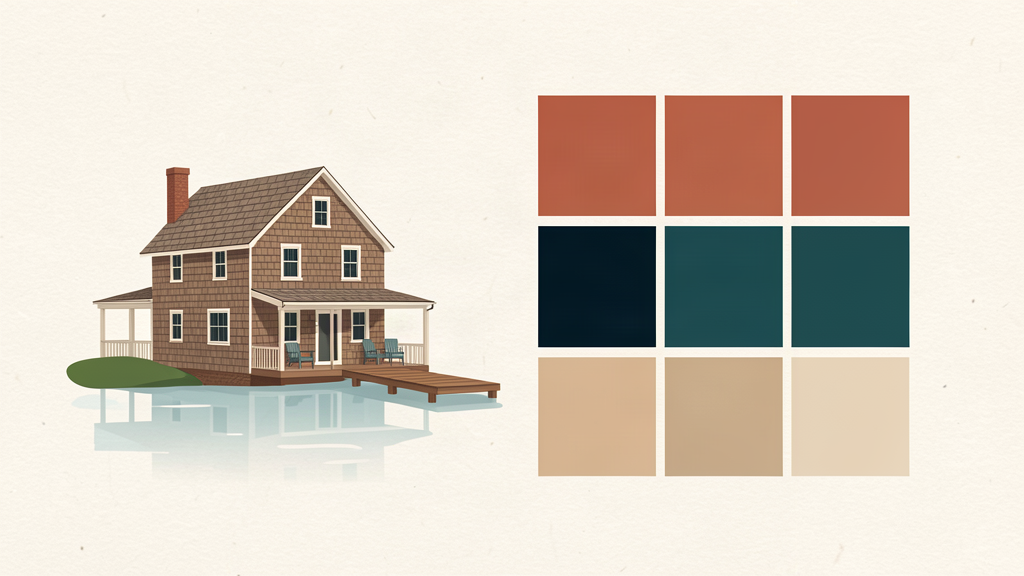
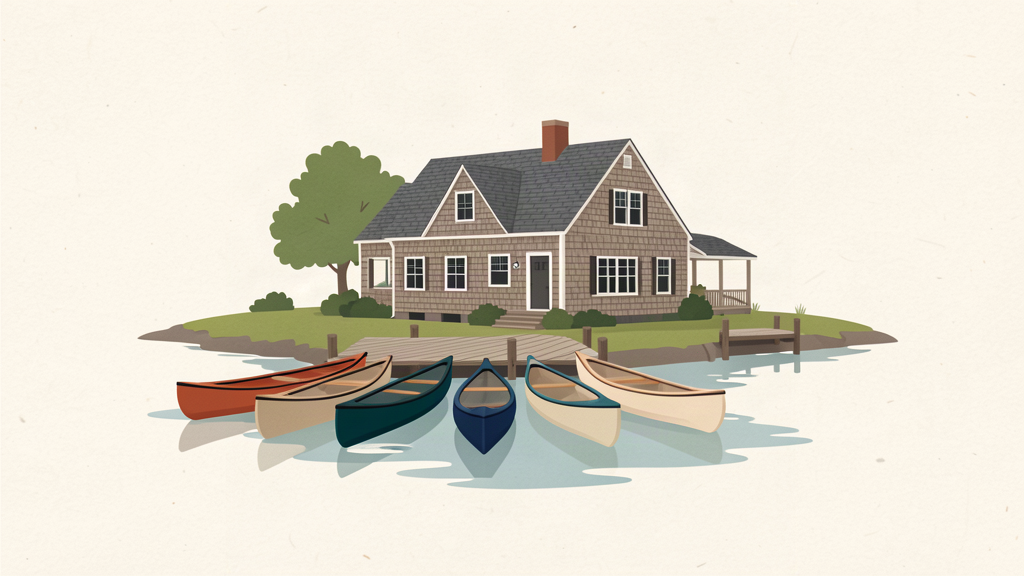
Replace hero image on post 1: lake house with canoes, no color grid

diff --git a/index.html b/index.html
@@ -1,3 +1,3 @@
 <!doctype html><html lang="en"><head><meta charset="utf-8"><meta name="viewport" content="width=device-width,initial-scale=1">
 <title>SplitHaus Guides (index) | draft preview</title><meta name="description" content="Draft preview of SplitHaus guides."><meta name="robots" content="noindex,nofollow"><link rel="preconnect" href="https://fonts.googleapis.com"><link href="https://fonts.googleapis.com/css2?family=Fraunces:opsz@9..144&family=Hanken+Grotesk:wght@400;600&display=swap" rel="stylesheet"><link rel="stylesheet" href="style.css"></head>
-<body><div class="banner">Draft preview for review. Not published. Not indexed.</div><main class="wrap"><nav class="crumb"><a href="https://www.splithaus.com/">SplitHaus</a></nav><h1>Guides</h1><p class="meta">Batch A drafts for review. Post 3 (SplitHaus vs a shared Google Calendar) is waiting on founder details.</p><a class="card" href="how-to-share-a-vacation-home-with-family/"><img src="images/share.png" alt="A lake house with a dock beside blocks of color representing a shared calendar"><div><h2>How to share a vacation home with family: five ways to split the calendar</h2><p>Five common ways families divide time at a shared vacation home, what each one is good at, and how to choose before you pick a tool.</p></div></a><a class="card" href="family-cabin-rules-template/"><img src="images/rules.png" alt="A cabin door with a checklist, a key, and a pet bed"><div><h2>Family cabin rules: a template your whole family can agree on</h2><p>A copy-ready set of house rules for a shared family cabin or vacation home, covering stays, guests, pets, spending, and the checkout list.</p></div></a><a class="card" href="inheriting-a-vacation-home-with-siblings/"><img src="images/siblings.png" alt="A beach house with three doors and a row of chairs facing the sea"><div><h2>Inheriting a vacation home with siblings: making a schedule that works</h2><p>When siblings inherit a family vacation home together, these are the scheduling questions to settle first, and the ones to take to a professional.</p></div></a></main></body></html>
+<body><div class="banner">Draft preview for review. Not published. Not indexed.</div><main class="wrap"><nav class="crumb"><a href="https://www.splithaus.com/">SplitHaus</a></nav><h1>Guides</h1><p class="meta">Batch A drafts for review. Post 3 (SplitHaus vs a shared Google Calendar) is waiting on founder details.</p><a class="card" href="how-to-share-a-vacation-home-with-family/"><img src="images/share.png" alt="A lake house with a dock and canoes on calm water"><div><h2>How to share a vacation home with family: five ways to split the calendar</h2><p>Five common ways families divide time at a shared vacation home, what each one is good at, and how to choose before you pick a tool.</p></div></a><a class="card" href="family-cabin-rules-template/"><img src="images/rules.png" alt="A cabin door with a checklist, a key, and a pet bed"><div><h2>Family cabin rules: a template your whole family can agree on</h2><p>A copy-ready set of house rules for a shared family cabin or vacation home, covering stays, guests, pets, spending, and the checkout list.</p></div></a><a class="card" href="inheriting-a-vacation-home-with-siblings/"><img src="images/siblings.png" alt="A beach house with three doors and a row of chairs facing the sea"><div><h2>Inheriting a vacation home with siblings: making a schedule that works</h2><p>When siblings inherit a family vacation home together, these are the scheduling questions to settle first, and the ones to take to a professional.</p></div></a></main></body></html>

diff --git a/how-to-share-a-vacation-home-with-family/index.html b/how-to-share-a-vacation-home-with-family/index.html
@@ -2,7 +2,7 @@
 <title>How to share a vacation home with family: five ways to split the calendar | SplitHaus</title><meta name="description" content="Five common ways families divide time at a shared vacation home, what each one is good at, and how to choose before you pick a tool."><meta name="robots" content="noindex,nofollow"><link rel="preconnect" href="https://fonts.googleapis.com"><link href="https://fonts.googleapis.com/css2?family=Fraunces:opsz@9..144&family=Hanken+Grotesk:wght@400;600&display=swap" rel="stylesheet"><link rel="stylesheet" href="../style.css"></head>
 <body><div class="banner">Draft preview for review. Not published. Not indexed.</div><article class="wrap"><nav class="crumb" aria-label="Breadcrumb"><a href="https://www.splithaus.com/">SplitHaus</a><span>/</span><a href="../">Guides</a></nav>
 <header><h1>How to share a vacation home with family: five ways to split the calendar</h1><p class="meta">By Matt Wells<span style="margin:0 8px">&middot;</span>Draft, not yet published</p></header>
-<figure><img src="../images/share.png" alt="A lake house with a dock beside blocks of color representing a shared calendar" width="1024" height="576"></figure>
+<figure><img src="../images/share.png" alt="A lake house with a dock and canoes on calm water" width="1024" height="576"></figure>
 <section class="short" aria-label="Short answer"><p class="l">Short answer</p><p class="a">Most families split a shared vacation home in one of five ways: fixed weeks, a rotation, a draft, booking as you go with limits, or matching everyone&#x27;s preferences. Decide which one fits your group, how holidays work, and what happens to nights nobody uses. Then write it down where everyone can see it.</p></section>
 <div class="body"><p>Sharing a vacation home with family usually starts simply. Everyone knows when they like to go, and someone keeps track. Then the family grows, a second and third household want the same summer weeks, and the question of who gets which dates gets harder to settle by phone.</p>
 <p>There is no single right way to divide the calendar. There are a handful of common ways, and each one suits a different kind of group. This guide walks through five of them, the questions every family has to answer whichever one it picks, and a worked example.</p>

diff --git a/source/build_preview.py b/source/build_preview.py
@@ -2,7 +2,7 @@
 import re, json, html, os, shutil, markdown
 SRC='/home/general/splithaus_run/content/drafts'
 OUT='/home/general/splithaus_run/content/site'
-IMG={'how-to-share-a-vacation-home-with-family':('share.png','A lake house with a dock beside blocks of color representing a shared calendar'),
+IMG={'how-to-share-a-vacation-home-with-family':('share.png','A lake house with a dock and canoes on calm water'),
      'family-cabin-rules-template':('rules.png','A cabin door with a checklist, a key, and a pet bed'),
      'inheriting-a-vacation-home-with-siblings':('siblings.png','A beach house with three doors and a row of chairs facing the sea')}
 ORDER=list(IMG)
